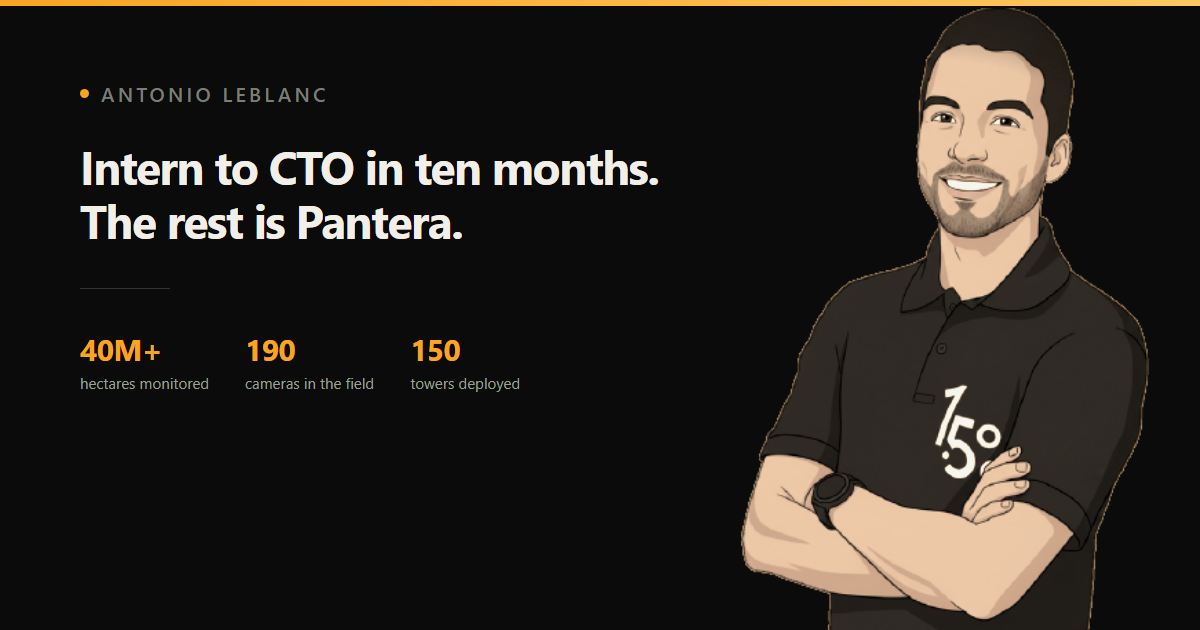
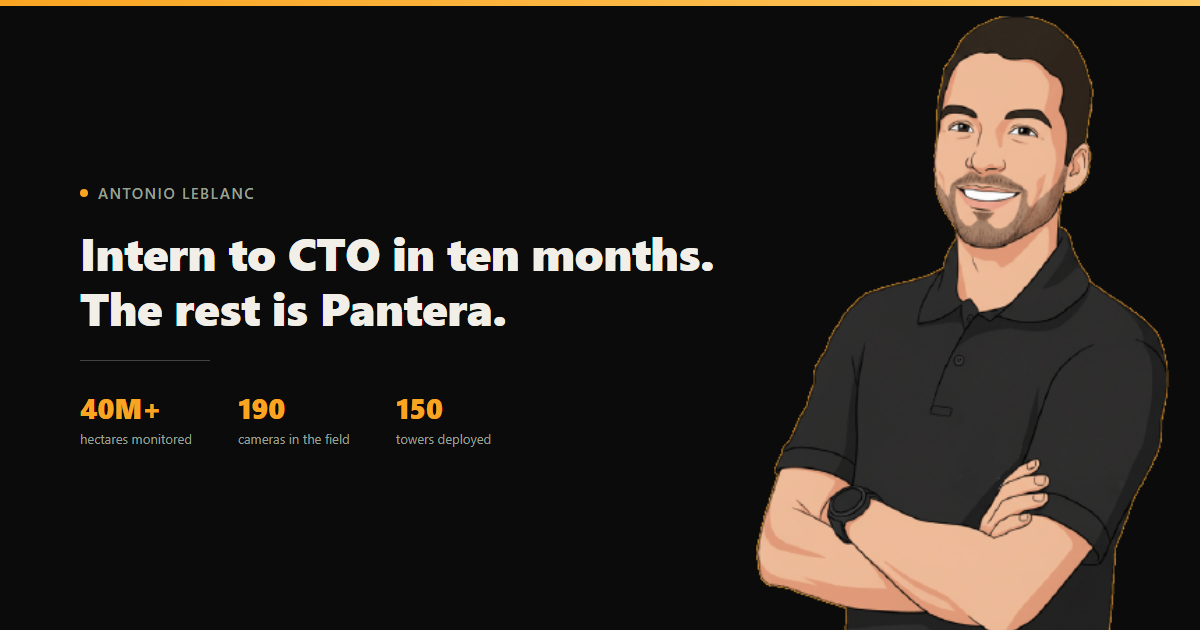
show

diff --git a/_src/og-image.html b/_src/og-image.html
@@ -1,0 +1,89 @@
+<!DOCTYPE html>
+<html lang="en">
+<head>
+<meta charset="UTF-8">
+<style>
+  * { margin: 0; padding: 0; box-sizing: border-box; }
+  html, body {
+    width: 1200px; height: 630px;
+    background: #0a0b0a;
+    font-family: -apple-system, BlinkMacSystemFont, "SF Pro Text", "Segoe UI", Roboto, Helvetica, Arial, sans-serif;
+    overflow: hidden;
+  }
+  .topbar-line {
+    position: absolute; top: 0; left: 0; right: 0; height: 6px;
+    background: linear-gradient(90deg, #f9a522, #ffc861);
+  }
+  .content {
+    position: absolute; top: 0; left: 0; bottom: 0;
+    width: 780px;
+    display: flex; flex-direction: column; justify-content: center;
+    padding-left: 80px;
+  }
+  .eyebrow {
+    display: flex; align-items: center; gap: 10px;
+    color: #9ba095;
+    font-size: 15px; font-weight: 600;
+    letter-spacing: 0.1em; text-transform: uppercase;
+    margin-bottom: 22px;
+  }
+  .dot {
+    width: 8px; height: 8px; border-radius: 50%;
+    background: #f9a522;
+    display: inline-block;
+  }
+  h1 {
+    color: #f2efe8;
+    font-size: 46px; font-weight: 800;
+    line-height: 1.18; letter-spacing: -0.01em;
+    margin-bottom: 26px;
+  }
+  .divider {
+    width: 130px; height: 1px;
+    background: #7a7e75;
+    opacity: 0.5;
+    margin-bottom: 28px;
+  }
+  .stats {
+    display: flex; gap: 46px;
+  }
+  .stat-num {
+    color: #f9a522;
+    font-size: 28px; font-weight: 800;
+  }
+  .stat-label {
+    color: #9ba095;
+    font-size: 13px; margin-top: 4px;
+  }
+  .avatar {
+    position: absolute;
+    right: 20px; bottom: -15px;
+    height: 640px;
+    width: auto;
+  }
+</style>
+</head>
+<body>
+  <div class="topbar-line"></div>
+  <div class="content">
+    <p class="eyebrow"><span class="dot"></span> Antonio Leblanc</p>
+    <h1>Intern to CTO in ten months.<br>The rest is Pantera.</h1>
+    <div class="divider"></div>
+    <div class="stats">
+      <div>
+        <div class="stat-num">40M+</div>
+        <div class="stat-label">hectares monitored</div>
+      </div>
+      <div>
+        <div class="stat-num">190</div>
+        <div class="stat-label">cameras in the field</div>
+      </div>
+      <div>
+        <div class="stat-num">150</div>
+        <div class="stat-label">towers deployed</div>
+      </div>
+    </div>
+  </div>
+  <img class="avatar" src="../avatar.png">
+</body>
+</html>

diff --git a/style.css b/style.css
@@ -116,13 +116,8 @@ body {
   font-size: 0.86rem;
   color: var(--fg-2);
 }
-.topbar nav a.lang-switch {
-  margin-left: 8px;
-  font-weight: 600;
-  opacity: 0.85;
-}
 @media (max-width: 620px) {
-  .topbar nav a:not(.contact):not(.lang-switch) { display: none; }
+  .topbar nav a:not(.contact) { display: none; }
 }
 
 .wrap {
